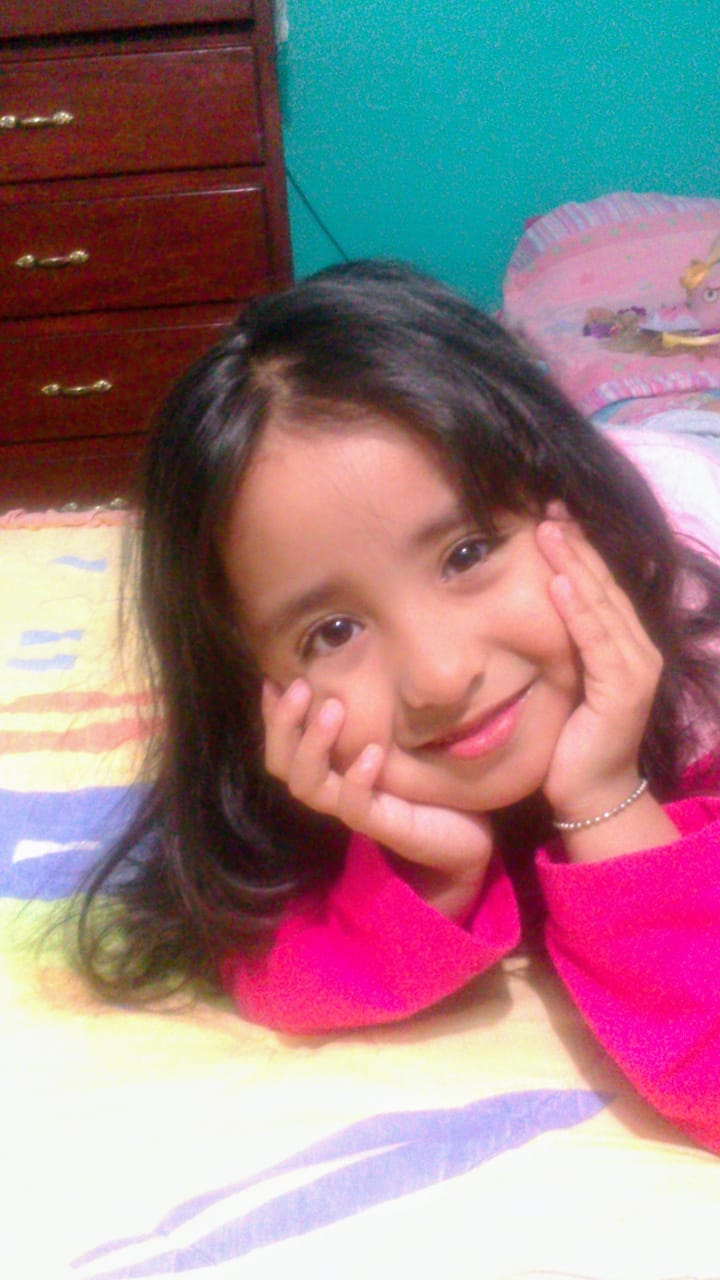
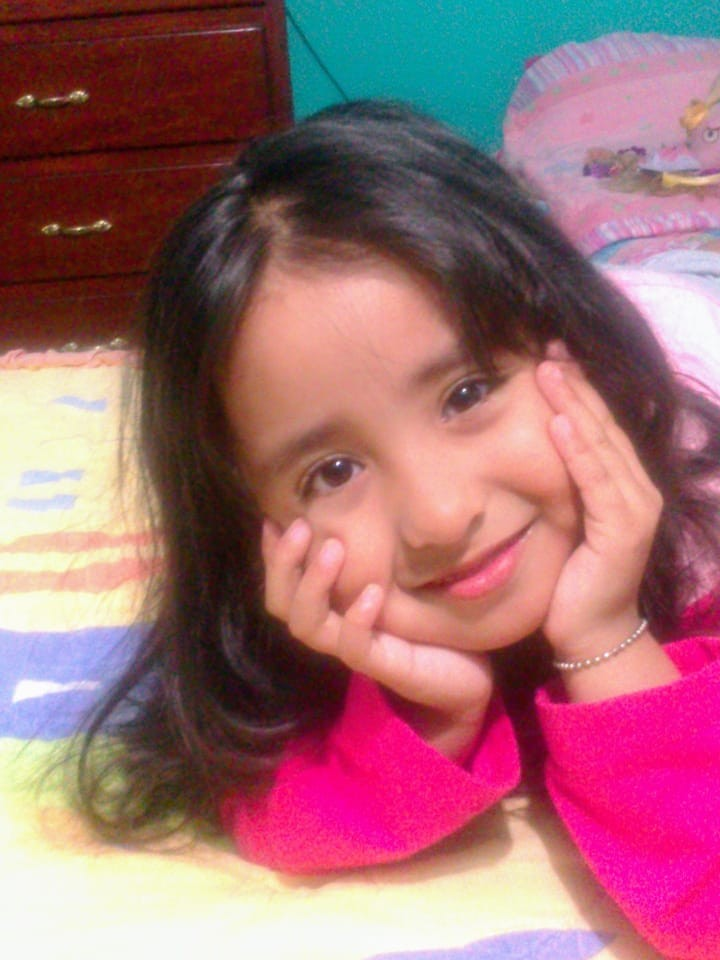
cambio en galeria2

diff --git a/style.css b/style.css
@@ -453,17 +453,23 @@ RESPONSIVE DESIGN (Para celulares y tablets)
 6. GALERÍA
 ======================================================*/
 
+/*======================================================
+6. GALERÍA
+======================================================*/
+
 .galeria {
     padding: 120px 20px;
     position: relative;
-    z-index: 1; /* Trae las fotos por encima del cielo estrellado */
+    z-index: 1;
 }
+
 
 .titulo-seccion {
     max-width: 700px;
     margin: 0 auto 60px;
     text-align: center;
 }
+
 
 .titulo-seccion span {
     color: var(--vela-fuego);
@@ -473,96 +479,121 @@ RESPONSIVE DESIGN (Para celulares y tablets)
     font-weight: 600;
 }
 
+
 .titulo-seccion h2 {
-    margin-top: 15px;
-    font-family: "Cormorant Garamond", serif;
-    font-size: 55px;
-    color: var(--titulo-magico); /* Cambiado al dorado de las velas */
-    text-shadow: 0 2px 10px rgba(11, 19, 43, 0.9);
+    margin-top:15px;
+    font-family:"Cormorant Garamond", serif;
+    font-size:55px;
+    color:var(--titulo-magico);
+    text-shadow:0 2px 10px rgba(11,19,43,.9);
 }
+
 
 .titulo-seccion p {
-    margin-top: 20px;
-    color: var(--blanco-estelar); /*  Cambiado para que sea legible sobre el fondo oscuro */
-    opacity: 0.8;
+    margin-top:20px;
+    color:var(--blanco-estelar);
+    opacity:.8;
 }
 
-/* GRID DE IMÁGENES */
+
+
+/*======================================================
+CARRUSEL GALERÍA
+======================================================*/
+
+
 .miGaleria{
 
     width:100%;
     max-width:1100px;
-
     margin:auto;
 
     padding-bottom:70px;
 
 }
 
+
+.swiper-wrapper{
+
+    align-items:center;
+
+}
+
+
 .swiper-slide{
 
-    height:500px;
+    height:520px;
 
     border-radius:30px;
 
     overflow:hidden;
 
-    transition:.4s;
+    background:#0b132b;
+
+    transition:.4s ease;
 
 }
+
 
 .swiper-slide img{
 
     width:100%;
+
     height:100%;
 
     object-fit:cover;
 
+    display:block;
+
 }
+
+
+/* efecto suave foto central */
 
 .swiper-slide-active{
 
-       transform:scale(1);
+    transform:scale(1.02);
 
 }
+
+
+
+/* puntos */
 
 .swiper-pagination-bullet{
 
     background:#FFD166;
 
+    opacity:.7;
+
 }
+
 
 .swiper-pagination-bullet-active{
 
     width:28px;
+
     border-radius:10px;
 
-}
-.swiper-wrapper{
-    align-items: stretch;
-}
+    opacity:1;
 
-.swiper-slide{
-    height: 600px !important;
 }
 
-.swiper-slide img{
-    width:100%;
-    height:100%;
-    object-fit:cover;
-}
 
-/* ======================================================
-RESPONSIVE - CARRUSEL
-====================================================== */
 
-@media (max-width: 900px){
+/*======================================================
+TABLET
+======================================================*/
+
+
+@media(max-width:900px){
 
     .miGaleria{
 
         max-width:95%;
 
     }
+
 
     .swiper-slide{
 
@@ -572,7 +603,15 @@ RESPONSIVE - CARRUSEL
 
 }
 
-@media (max-width: 600px){
+
+
+/*======================================================
+CELULAR
+======================================================*/
+
+
+@media(max-width:600px){
+
 
     .titulo-seccion h2{
 
@@ -580,25 +619,43 @@ RESPONSIVE - CARRUSEL
 
     }
 
+
     .miGaleria{
 
         max-width:100%;
 
-        padding-bottom:55px;
+        padding-bottom:50px;
 
     }
 
+
     .swiper-slide{
 
-        height:320px;
+        height:330px;
 
         border-radius:20px;
 
     }
 
+
+    .swiper-slide-active{
+
+        transform:scale(1);
+
+    }
+
+
 }
 
-@media (min-width:1400px){
+
+
+/*======================================================
+PANTALLAS GRANDES
+======================================================*/
+
+
+@media(min-width:1400px){
+
 
     .miGaleria{
 
@@ -606,14 +663,14 @@ RESPONSIVE - CARRUSEL
 
     }
 
+
     .swiper-slide{
 
-        height:600px;
+        height:560px;
 
     }
 
 }
-
 /*======================================================
 5. LUGARES
 ======================================================*/

diff --git a/script.js b/script.js
@@ -141,38 +141,32 @@ setInterval(
 
 
 
-
 new Swiper(".miGaleria", {
 
-    loop: true,
+    loop:true,
 
-    centeredSlides: true,
+    centeredSlides:true,
 
-    slidesPerView: 1,
+    slidesPerView:1,
 
-    spaceBetween: 25,
+    spaceBetween:20,
 
-    autoplay: {
-        delay: 3000
+    autoplay:{
+        delay:3000,
+        disableOnInteraction:false
     },
 
-    pagination: {
-        el: ".swiper-pagination",
-        clickable: true
+    pagination:{
+        el:".swiper-pagination",
+        clickable:true
     },
 
-    breakpoints: {
 
-        900: {
+    breakpoints:{
 
-            slidesPerView: 2
-
-        },
-
-        1200: {
-
-            slidesPerView: 3
-
+        768:{
+            slidesPerView:2,
+            spaceBetween:25
         }
 
     }

diff --git a/index.html b/index.html
@@ -17,7 +17,7 @@ rel="stylesheet"
 href="https://cdn.jsdelivr.net/npm/swiper@11/swiper-bundle.min.css">
 </head>
 <body>
-<script src="https://cdn.jsdelivr.net/npm/swiper@11/swiper-bundle.min.js"></script>
+
     <!-- ESTRELLAS CAÍDAS -->
 <div class="estrellas-container"></div>
 
@@ -544,6 +544,7 @@ CIERRE FINAL
 </footer>
 
 
+<script src="https://cdn.jsdelivr.net/npm/swiper@11/swiper-bundle.min.js"></script>
 
 <script src="script.js"></script>
 
